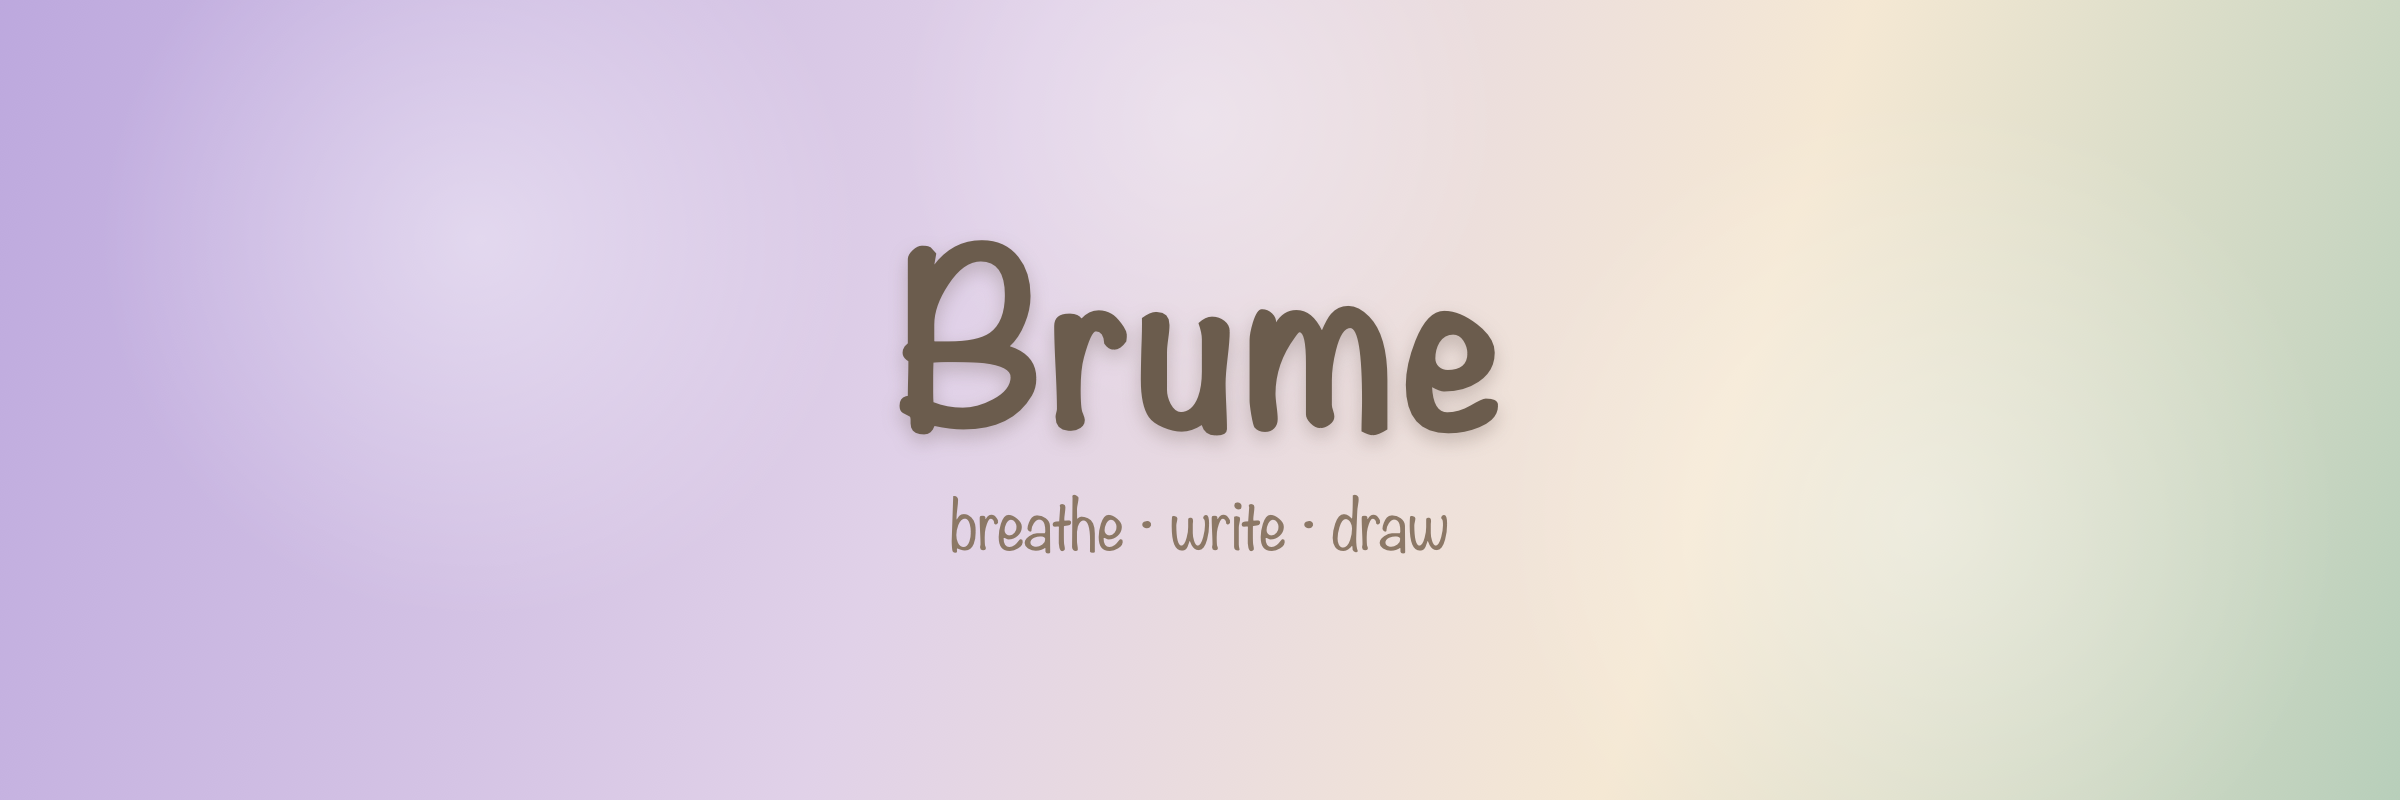
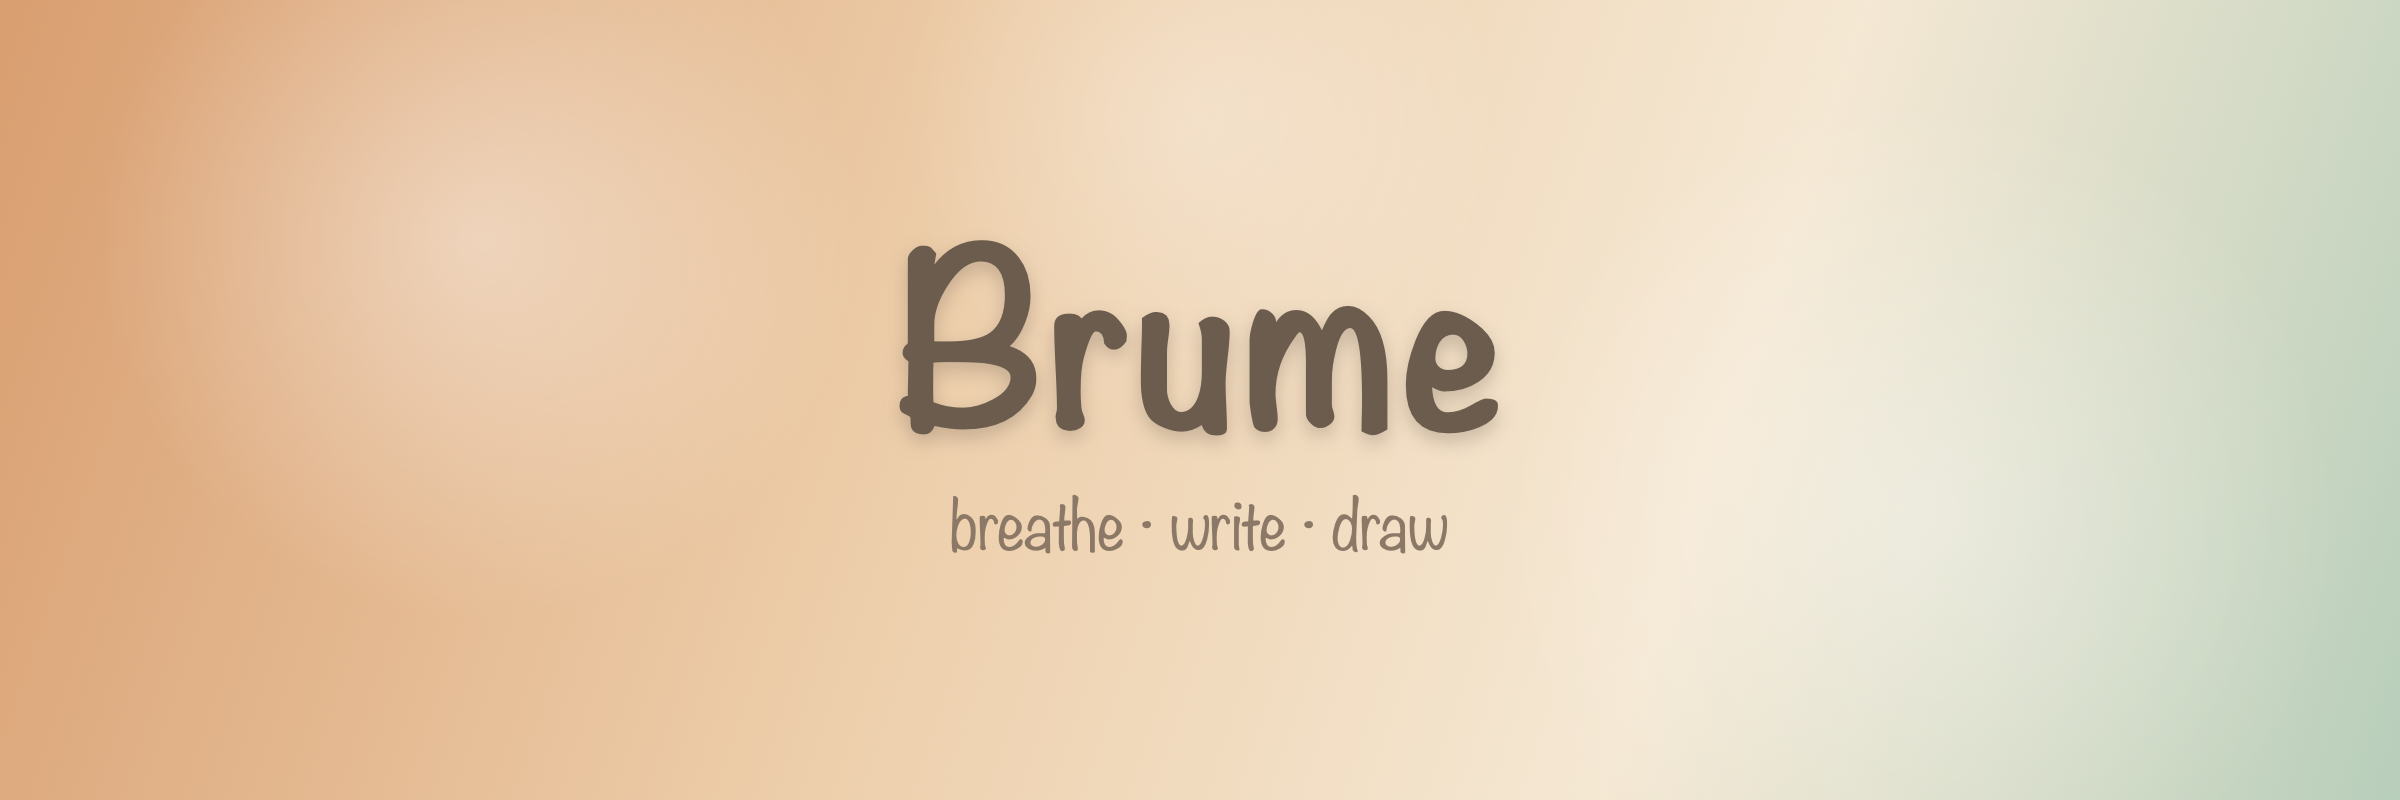
Update color themes and assets to enhance visual consistency and replace lavender with clay

diff --git a/Brume/Theme/BrumeTheme.swift b/Brume/Theme/BrumeTheme.swift
@@ -3,26 +3,27 @@ import SwiftUI
 enum BrumeTheme {
     // MARK: - Colors
     struct Colors {
-        // Surfaces & text adapt between light/dark so the app stays legible in both.
-        static let background     = dyn(light: "#F7F3EC", dark: "#1B1D28")
-        static let surface        = dyn(light: "#FDF9F3", dark: "#262030")
-        static let warmBrown      = dyn(light: "#6B5B4E", dark: "#E6DCEF") // titles
-        static let softBrown      = dyn(light: "#A08070", dark: "#B6A6C9")
-        static let inkDark        = dyn(light: "#3D3530", dark: "#ECE8F2")
-        static let inkMedium      = dyn(light: "#6B5B4E", dark: "#C3BBD0")
-        static let inkLight       = dyn(light: "#9A8880", dark: "#8E869C")
-        static let paperLine      = dyn(light: "#E8DDD0", dark: "#39354A", lightAlpha: 0.6, darkAlpha: 0.7)
-        static let cardBorder     = dyn(light: "#E2D8CC", dark: "#3A3548")
+        // Surfaces & text adapt between light/dark. The night theme is a warm
+        // sepia (not indigo) so it sits beautifully with the terracotta accent.
+        static let background     = dyn(light: "#F7F3EC", dark: "#1E1A17")
+        static let surface        = dyn(light: "#FDF9F3", dark: "#29231E")
+        static let warmBrown      = dyn(light: "#6B5B4E", dark: "#EFE6D9") // titles
+        static let softBrown      = dyn(light: "#A08070", dark: "#C9B4A2")
+        static let inkDark        = dyn(light: "#3D3530", dark: "#F1EBE2")
+        static let inkMedium      = dyn(light: "#6B5B4E", dark: "#CBBEB0")
+        static let inkLight       = dyn(light: "#9A8880", dark: "#9C9082")
+        static let paperLine      = dyn(light: "#E8DDD0", dark: "#3A332C", lightAlpha: 0.6, darkAlpha: 0.7)
+        static let cardBorder     = dyn(light: "#E2D8CC", dark: "#3E362E")
 
-        // Brand accents — readable on both schemes, so kept constant.
-        static let lavender       = Color(hex: "#9B8EC4")
-        static let lavenderLight  = Color(hex: "#C8B8E8")
+        // Brand accents — warm terracotta + sage, readable on both schemes.
+        static let clay           = Color(hex: "#B97B4D")
+        static let clayLight      = Color(hex: "#D2A06F")
         static let sage           = Color(hex: "#8BA888")
         static let sageLight      = Color(hex: "#B5CEB3")
 
         // Mood colors
         static let moodHappy      = Color(hex: "#F4C542")
-        static let moodCalm       = Color(hex: "#9B8EC4")
+        static let moodCalm       = Color(hex: "#8DA3B5")
         static let moodSad        = Color(hex: "#7BAFD4")
         static let moodEnergetic  = Color(hex: "#E88B5A")
         static let moodGrateful   = Color(hex: "#8BA888")
@@ -39,20 +40,24 @@ enum BrumeTheme {
 
     // MARK: - Fonts
     struct Fonts {
+        // Handwriting (Noteworthy) reads small at nominal sizes, so every
+        // handwriting style is scaled up for comfortable legibility.
+        static let handwritingScale: CGFloat = 1.18
+
         static func title(_ size: CGFloat = 28) -> Font {
-            .custom("Noteworthy-Bold", size: size)
+            .custom("Noteworthy-Bold", size: size * handwritingScale)
         }
         static func heading(_ size: CGFloat = 20) -> Font {
-            .custom("Noteworthy-Light", size: size)
+            .custom("Noteworthy-Bold", size: size * handwritingScale)
         }
         static func label(_ size: CGFloat = 15) -> Font {
-            .custom("Noteworthy-Light", size: size)
+            .custom("Noteworthy-Bold", size: size * handwritingScale)
         }
         static func body(_ size: CGFloat = 16) -> Font {
-            .custom("Noteworthy-Light", size: size)
+            .custom("Noteworthy-Light", size: size * handwritingScale)
         }
         static func caption(_ size: CGFloat = 12) -> Font {
-            .custom("Noteworthy-Light", size: size)
+            .custom("Noteworthy-Light", size: size * handwritingScale)
         }
         // For main text entry (readability first)
         static func journalBody(_ size: CGFloat = 17) -> Font {
@@ -119,9 +124,6 @@ extension ShapeStyle where Self == Color {
     }
     static var brumeSurface: Color {
         Color("BrumeSurface")
-    }
-    static var brumeLavender: Color {
-        Color("BrumeLavender")
     }
     static var brumeInk: Color {
         Color("BrumeInk")

diff --git a/Brume/Views/Canvas/CanvasTool.swift b/Brume/Views/Canvas/CanvasTool.swift
@@ -36,7 +36,7 @@ enum PenKind: String, CaseIterable, Identifiable {
 // Soothing palette for both ink and text.
 enum InkColor: String, CaseIterable, Identifiable {
     case ink
-    case lavender
+    case clay
     case sage
     case rose
     case sky
@@ -46,12 +46,12 @@ enum InkColor: String, CaseIterable, Identifiable {
 
     var hex: String {
         switch self {
-        case .ink:      return "#3D3530"
-        case .lavender: return "#9B8EC4"
-        case .sage:     return "#8BA888"
-        case .rose:     return "#C98BA8"
-        case .sky:      return "#7BAFD4"
-        case .amber:    return "#E0A458"
+        case .ink:   return "#3D3530"
+        case .clay:  return "#B97B4D"
+        case .sage:  return "#8BA888"
+        case .rose:  return "#C98BA8"
+        case .sky:   return "#7BAFD4"
+        case .amber: return "#E0A458"
         }
     }
 

diff --git a/Brume/Theme/HandDrawn.swift b/Brume/Theme/HandDrawn.swift
@@ -162,7 +162,7 @@ struct SoftButton: View {
                 Text(title)
                     .font(BrumeTheme.Fonts.heading(18))
             }
-            .foregroundStyle(filled ? Color.white : BrumeTheme.Colors.lavender)
+            .foregroundStyle(filled ? Color.white : BrumeTheme.Colors.clay)
             .padding(.horizontal, BrumeTheme.Spacing.lg)
             .padding(.vertical, 14)
             .frame(maxWidth: .infinity)
@@ -170,7 +170,7 @@ struct SoftButton: View {
                 Group {
                     if filled {
                         LinearGradient(
-                            colors: [BrumeTheme.Colors.lavender, BrumeTheme.Colors.lavenderLight],
+                            colors: [BrumeTheme.Colors.clay, BrumeTheme.Colors.clayLight],
                             startPoint: .topLeading,
                             endPoint: .bottomTrailing
                         )
@@ -182,9 +182,9 @@ struct SoftButton: View {
             .clipShape(RoundedRectangle(cornerRadius: BrumeTheme.Radius.pill, style: .continuous))
             .overlay(
                 RoundedRectangle(cornerRadius: BrumeTheme.Radius.pill, style: .continuous)
-                    .stroke(BrumeTheme.Colors.lavender.opacity(filled ? 0 : 0.6), lineWidth: 1.5)
+                    .stroke(BrumeTheme.Colors.clay.opacity(filled ? 0 : 0.6), lineWidth: 1.5)
             )
-            .shadow(color: filled ? BrumeTheme.Colors.lavender.opacity(0.3) : .clear, radius: 12, y: 4)
+            .shadow(color: filled ? BrumeTheme.Colors.clay.opacity(0.3) : .clear, radius: 12, y: 4)
         }
         .buttonStyle(.plain)
     }

diff --git a/Brume/Views/Home/HomeView.swift b/Brume/Views/Home/HomeView.swift
@@ -138,7 +138,7 @@ struct HomeView: View {
                 .foregroundStyle(BrumeTheme.Colors.inkLight)
             TextField("Search your thoughts…", text: $searchText)
                 .font(BrumeTheme.Fonts.body(16))
-                .tint(BrumeTheme.Colors.lavender)
+                .tint(BrumeTheme.Colors.clay)
         }
         .padding(.horizontal, BrumeTheme.Spacing.md)
         .padding(.vertical, 12)
@@ -181,7 +181,7 @@ struct HomeView: View {
     private var emptyState: some View {
         VStack(spacing: BrumeTheme.Spacing.lg) {
             Spacer()
-            OnboardingIllustration(kind: .write, accent: BrumeTheme.Colors.lavender)
+            OnboardingIllustration(kind: .write, accent: BrumeTheme.Colors.clay)
                 .frame(height: 180)
             VStack(spacing: BrumeTheme.Spacing.sm) {
                 Text(searchText.isEmpty ? "Your page awaits" : "Nothing found")
@@ -215,12 +215,12 @@ struct HomeView: View {
                 .frame(width: 64, height: 64)
                 .background(
                     LinearGradient(
-                        colors: [BrumeTheme.Colors.lavender, BrumeTheme.Colors.lavenderLight],
+                        colors: [BrumeTheme.Colors.clay, BrumeTheme.Colors.clayLight],
                         startPoint: .topLeading, endPoint: .bottomTrailing
                     )
                 )
                 .clipShape(Circle())
-                .shadow(color: BrumeTheme.Colors.lavender.opacity(0.4), radius: 16, y: 6)
+                .shadow(color: BrumeTheme.Colors.clay.opacity(0.4), radius: 16, y: 6)
         }
     }
 }

diff --git a/Tools/generate_icon.swift b/Tools/generate_icon.swift
@@ -32,11 +32,11 @@ ctx.saveGState()
 ctx.addRect(full)
 ctx.clip()
 let bgGrad = CGGradient(colorsSpace: cs, colors: [
-    color(0.72, 0.64, 0.86),   // deeper lavender top
-    color(0.86, 0.80, 0.90),   // soft lilac
-    color(0.96, 0.90, 0.82),   // warm cream
+    color(0.85, 0.62, 0.44),   // terracotta top
+    color(0.93, 0.80, 0.66),   // warm clay
+    color(0.96, 0.91, 0.83),   // cream
     color(0.70, 0.80, 0.72)    // sage bottom
-] as CFArray, locations: [0, 0.38, 0.66, 1])!
+] as CFArray, locations: [0, 0.34, 0.64, 1])!
 ctx.drawLinearGradient(
     bgGrad,
     start: CGPoint(x: 0, y: W),

diff --git a/Brume/Views/Canvas/CanvasEditorView.swift b/Brume/Views/Canvas/CanvasEditorView.swift
@@ -123,7 +123,7 @@ struct CanvasEditorView: View {
 
             // Mode switcher
             HStack(spacing: 0) {
-                modeTab(.write, icon: "text.cursor", label: "Write")
+                modeTab(.write, icon: "pencil.line", label: "Write")
                 modeTab(.draw, icon: "scribble.variable", label: "Draw")
             }
             .padding(4)
@@ -157,7 +157,7 @@ struct CanvasEditorView: View {
             .padding(.horizontal, BrumeTheme.Spacing.lg)
             .padding(.vertical, 10)
             .background(
-                Capsule().fill(isSelected ? BrumeTheme.Colors.lavender : .clear)
+                Capsule().fill(isSelected ? BrumeTheme.Colors.clay : .clear)
             )
         }
     }
@@ -211,7 +211,7 @@ struct CanvasEditorView: View {
             } label: {
                 Image(systemName: "plus.circle.fill")
                     .font(.system(size: 26))
-                    .foregroundStyle(BrumeTheme.Colors.lavender)
+                    .foregroundStyle(BrumeTheme.Colors.clay)
             }
         }
         .padding(BrumeTheme.Spacing.md)

diff --git a/Brume/Views/Canvas/CoachOverlay.swift b/Brume/Views/Canvas/CoachOverlay.swift
@@ -39,11 +39,11 @@ struct CoachOverlay: View {
                     VStack(spacing: BrumeTheme.Spacing.md) {
                         ZStack {
                             Circle()
-                                .fill(BrumeTheme.Colors.lavender.opacity(0.15))
+                                .fill(BrumeTheme.Colors.clay.opacity(0.15))
                                 .frame(width: 64, height: 64)
                             Image(systemName: tips[step].icon)
                                 .font(.system(size: 28, weight: .light))
-                                .foregroundStyle(BrumeTheme.Colors.lavender)
+                                .foregroundStyle(BrumeTheme.Colors.clay)
                         }
 
                         Text(tips[step].title)
@@ -60,7 +60,7 @@ struct CoachOverlay: View {
                         HStack(spacing: 8) {
                             ForEach(tips.indices, id: \.self) { i in
                                 Circle()
-                                    .fill(i == step ? BrumeTheme.Colors.lavender : BrumeTheme.Colors.cardBorder)
+                                    .fill(i == step ? BrumeTheme.Colors.clay : BrumeTheme.Colors.cardBorder)
                                     .frame(width: 7, height: 7)
                             }
                         }

diff --git a/Brume/Views/Canvas/TextNodeView.swift b/Brume/Views/Canvas/TextNodeView.swift
@@ -17,19 +17,19 @@ struct TextNodeView: View {
                 .focused($fieldFocused)
                 .font(.system(size: annotation.fontSize, weight: .regular, design: .serif))
                 .foregroundStyle(InkColor.from(hex: annotation.colorHex).color)
-                .tint(BrumeTheme.Colors.lavender)
+                .tint(BrumeTheme.Colors.clay)
                 .multilineTextAlignment(.leading)
                 .frame(width: annotation.width, alignment: .topLeading)
                 .fixedSize(horizontal: false, vertical: true)
                 .padding(8)
                 .background(
                     RoundedRectangle(cornerRadius: 10, style: .continuous)
-                        .fill(isFocused ? BrumeTheme.Colors.lavender.opacity(0.06) : .clear)
+                        .fill(isFocused ? BrumeTheme.Colors.clay.opacity(0.06) : .clear)
                 )
                 .overlay(
                     RoundedRectangle(cornerRadius: 10, style: .continuous)
                         .stroke(
-                            isFocused ? BrumeTheme.Colors.lavender.opacity(0.5) : .clear,
+                            isFocused ? BrumeTheme.Colors.clay.opacity(0.5) : .clear,
                             style: StrokeStyle(lineWidth: 1.2, dash: [4, 3])
                         )
                 )

diff --git a/Brume/Views/Home/LockScreenView.swift b/Brume/Views/Home/LockScreenView.swift
@@ -8,7 +8,7 @@ struct LockScreenView: View {
         ZStack {
             LinearGradient(
                 colors: [
-                    BrumeTheme.Colors.lavenderLight.opacity(0.4),
+                    BrumeTheme.Colors.clayLight.opacity(0.4),
                     BrumeTheme.Colors.background
                 ],
                 startPoint: .top, endPoint: .bottom
@@ -18,13 +18,13 @@ struct LockScreenView: View {
             VStack(spacing: BrumeTheme.Spacing.xl) {
                 ZStack {
                     Circle()
-                        .fill(BrumeTheme.Colors.lavender.opacity(0.15))
+                        .fill(BrumeTheme.Colors.clay.opacity(0.15))
                         .frame(width: 140, height: 140)
                         .scaleEffect(breathe ? 1.1 : 0.95)
 
                     Image(systemName: "lock.fill")
                         .font(.system(size: 44, weight: .light))
-                        .foregroundStyle(BrumeTheme.Colors.lavender)
+                        .foregroundStyle(BrumeTheme.Colors.clay)
                 }
 
                 VStack(spacing: BrumeTheme.Spacing.sm) {

diff --git a/Brume/Views/Settings/SettingsView.swift b/Brume/Views/Settings/SettingsView.swift
@@ -38,7 +38,7 @@ struct SettingsView: View {
                 }
             }
         }
-        .tint(BrumeTheme.Colors.lavender)
+        .tint(BrumeTheme.Colors.clay)
     }
 
     // MARK: - Appearance
@@ -154,7 +154,7 @@ struct SettingsView: View {
 
                 Text("breathe · write · draw")
                     .font(BrumeTheme.Fonts.label(15))
-                    .foregroundStyle(BrumeTheme.Colors.lavender)
+                    .foregroundStyle(BrumeTheme.Colors.clay)
                     .frame(maxWidth: .infinity)
                     .padding(.top, 4)
             }
@@ -190,7 +190,7 @@ struct SettingsCard<Content: View>: View {
             HStack(spacing: 8) {
                 Image(systemName: icon)
                     .font(.system(size: 15, weight: .medium))
-                    .foregroundStyle(BrumeTheme.Colors.lavender)
+                    .foregroundStyle(BrumeTheme.Colors.clay)
                 Text(title)
                     .font(BrumeTheme.Fonts.heading(18))
                     .foregroundStyle(BrumeTheme.Colors.warmBrown)

diff --git a/Brume/Views/Home/EntryCard.swift b/Brume/Views/Home/EntryCard.swift
@@ -70,7 +70,7 @@ struct EntryCard: View {
                 .fill(
                     LinearGradient(
                         colors: [
-                            (Mood.from(entry.mood)?.color ?? BrumeTheme.Colors.lavender).opacity(0.18),
+                            (Mood.from(entry.mood)?.color ?? BrumeTheme.Colors.clay).opacity(0.18),
                             (Mood.from(entry.mood)?.color ?? BrumeTheme.Colors.sage).opacity(0.08)
                         ],
                         startPoint: .topLeading, endPoint: .bottomTrailing
@@ -87,7 +87,7 @@ struct EntryCard: View {
             } else {
                 Image(systemName: "doc.text")
                     .font(.system(size: 22, weight: .light))
-                    .foregroundStyle(BrumeTheme.Colors.lavender.opacity(0.6))
+                    .foregroundStyle(BrumeTheme.Colors.clay.opacity(0.6))
             }
         }
     }

diff --git a/Brume/Views/Onboarding/OnboardingIllustration.swift b/Brume/Views/Onboarding/OnboardingIllustration.swift
@@ -133,7 +133,7 @@ private struct CalmIllustration: View {
             MoonDoodle()
                 .fill(
                     LinearGradient(
-                        colors: [BrumeTheme.Colors.lavenderLight, accent],
+                        colors: [BrumeTheme.Colors.clayLight, accent],
                         startPoint: .topLeading, endPoint: .bottomTrailing
                     )
                 )
@@ -270,7 +270,7 @@ struct MoonDoodle: Shape {
 
 #Preview {
     VStack(spacing: 40) {
-        OnboardingIllustration(kind: .write, accent: BrumeTheme.Colors.lavender)
+        OnboardingIllustration(kind: .write, accent: BrumeTheme.Colors.clay)
         OnboardingIllustration(kind: .draw, accent: BrumeTheme.Colors.sage)
         OnboardingIllustration(kind: .calm, accent: BrumeTheme.Colors.softBrown)
     }